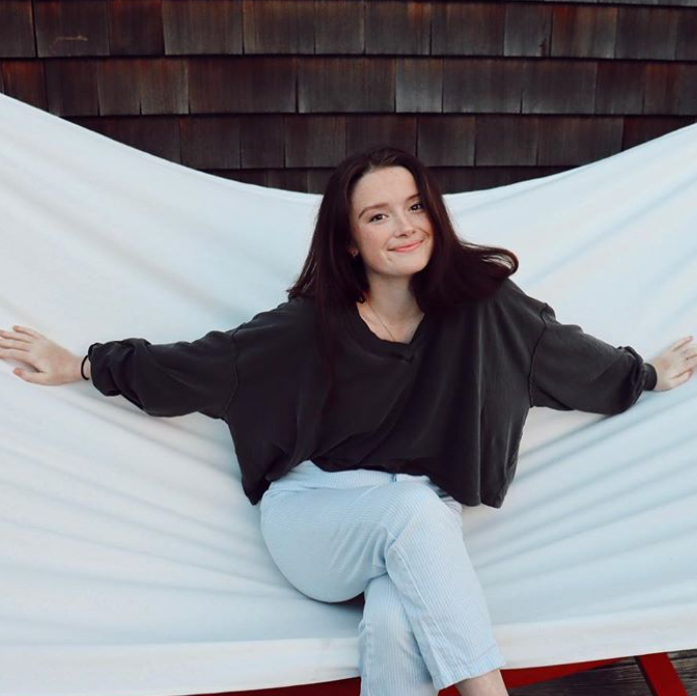
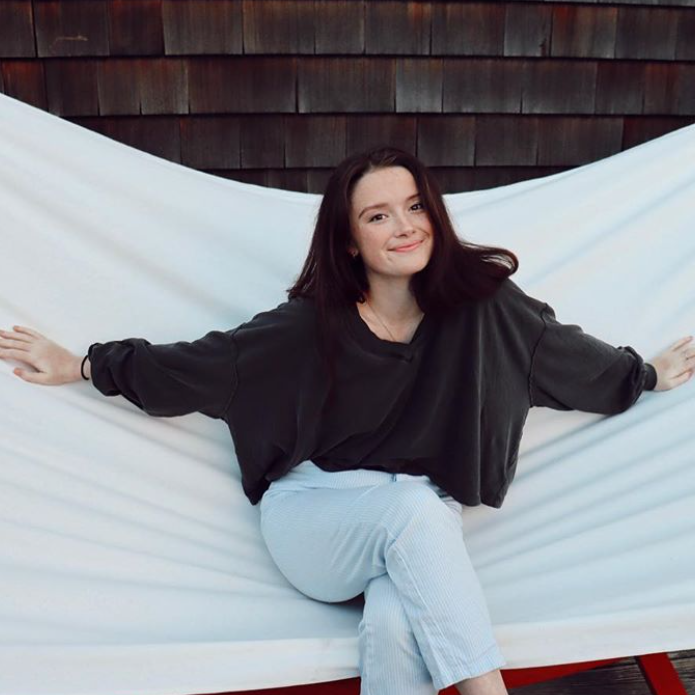
lexie-photo

diff --git a/services.html b/services.html
@@ -176,7 +176,7 @@
                             <div class="col-xl-4 col-lg-4 col-md-6 col-sm-6">
                                 <div class="single-popular-items mb-50 text-center">
                                     <div class="popular-img">
-                                        <img src="assets/img/gallery/lexie_1.PNG" alt="">
+                                        <img src="assets/img/gallery/lexie_1.jpeg" alt="">
                                         <div class="img-cap">
                                             <span>See more</span>
                                         </div>
